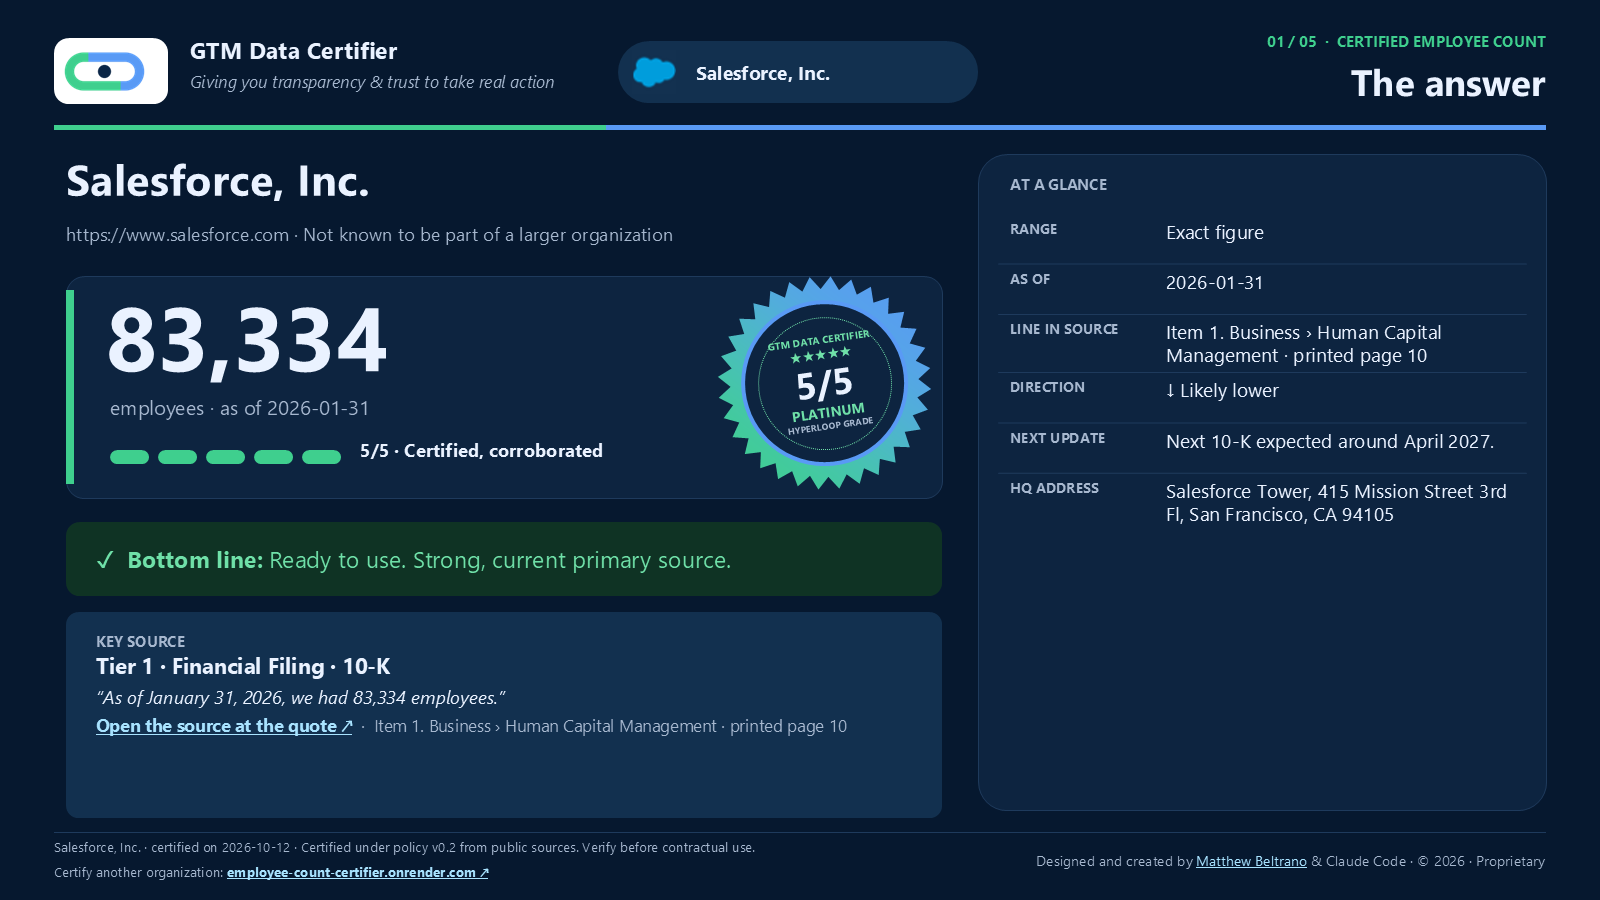
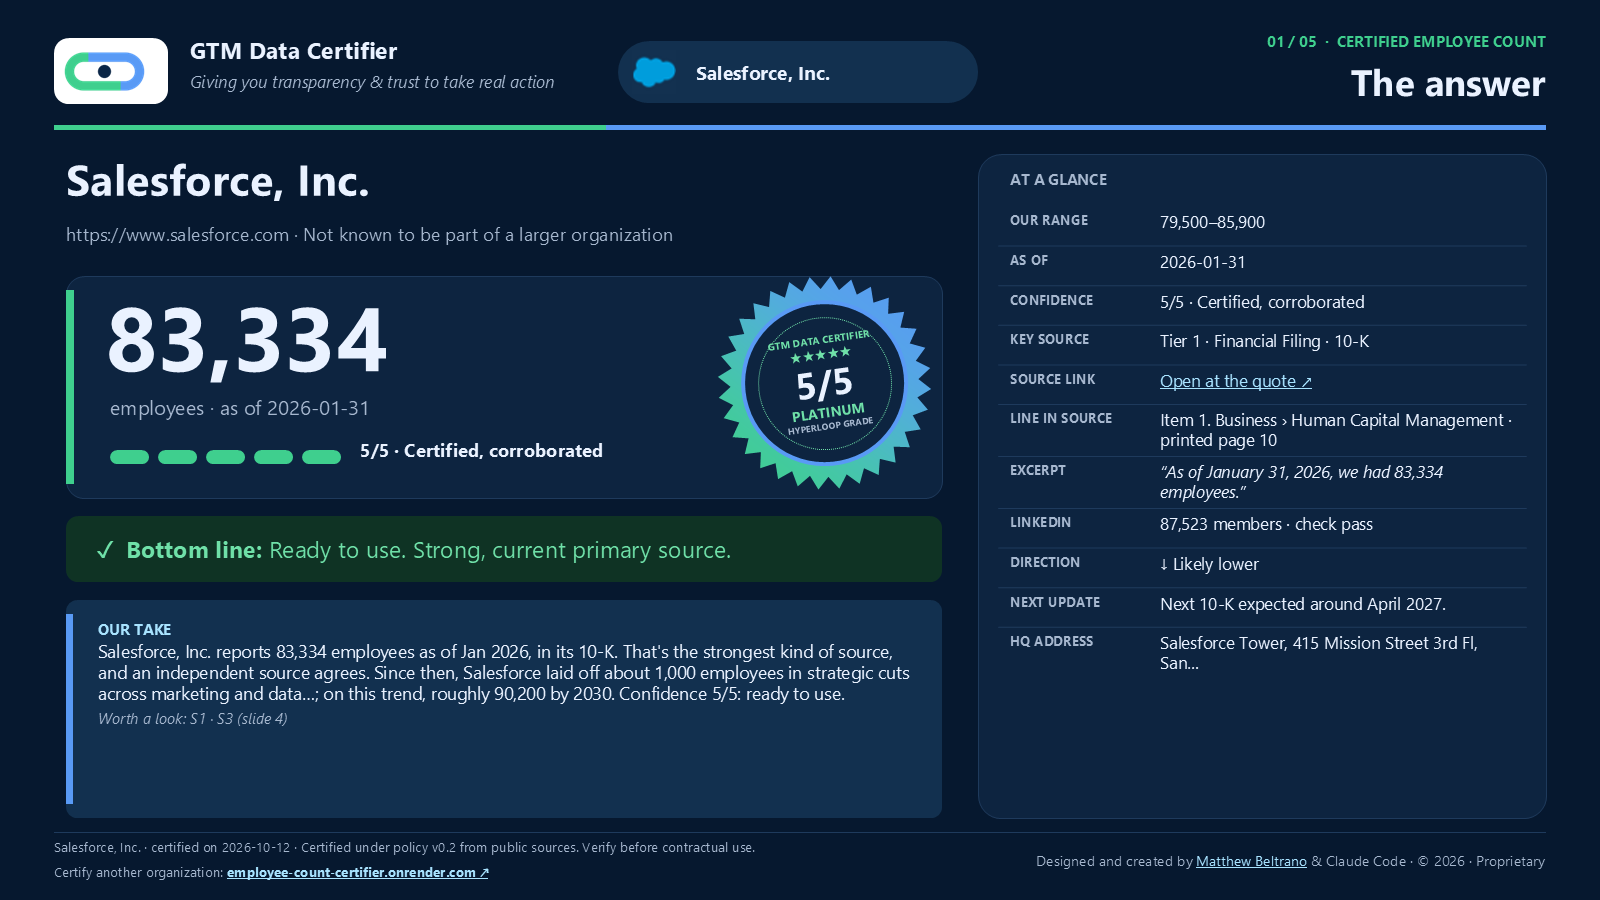
Sections collapsed by default, bottom Download beside Search, richer deck (Our take and full At a glance on slide 1, trust journey and score breakdown on slide 3)

diff --git a/src/certifier/static/app.js b/src/certifier/static/app.js
@@ -417,6 +417,18 @@
     state.rating = null;
     var rec = payload.record;
     GTMCard.render($("result-card"), rec, { actions: false, logo: logoUrl, exportUrl: exportUrl });
+    // The card's bottom Download menu sits beside "Search another company" below the card, saving a row.
+    var bottom = $("result-card").nextElementSibling, menu = $("result-card").querySelector("footer .footer-actions .dl-menu");
+    if (bottom && menu) {
+      var oldSlot = bottom.querySelector(".dl-slot");
+      if (oldSlot) oldSlot.remove();
+      var slot = document.createElement("span"), inner = document.createElement("span");
+      slot.className = "cert dl-slot"; inner.className = "footer-actions";
+      inner.appendChild(menu); slot.appendChild(inner);
+      bottom.insertBefore(slot, bottom.firstChild);
+      var emptyRow = $("result-card").querySelector("footer .footer-actions");
+      if (emptyRow && !emptyRow.children.length) emptyRow.remove();
+    }
     // The expedition's theme signs off on the result it found.
     var done = $("theme-done"), theme = fromHistory ? null : state.theme;
     state.theme = null;

diff --git a/src/certifier/static/app.css b/src/certifier/static/app.css
@@ -314,3 +314,9 @@ code { font-size: 13px; padding: 1px 5px; border-radius: 4px; background: var(--
   .recent-list button { padding: 8px 10px; font-size: 13px; }
   .site-footer { font-size: 12px; }
 }
+
+/* The card's bottom Download menu, moved beside "Search another company". */
+.dl-slot { display: inline-block; }
+.dl-slot .footer-actions { margin: 0; display: inline-block; }
+.dl-slot .dl-menu > summary.dl-button { padding: 11px 16px; font-size: 15px; }
+.actions { align-items: center; }

diff --git a/src/certifier/office.py b/src/certifier/office.py
@@ -274,43 +274,44 @@ def deck(record: dict, theme: str = "light", logo: bytes | None = None, site_url
         rect(s, 0.92 + i * 0.4, 3.75, 0.32, 0.12, "brand_green" if i < c["score"] else "line", MSO_SHAPE.ROUNDED_RECTANGLE, radius=0.5)
     text(s, 3.0, 3.66, 2.9, 0.3, f"{c['score']}/5 · {c['level']}", 11, bold=True)
     _seal(s, 5.98, 2.3, 1.78, c["score"], t)
-    bl = rect(s, 0.55, 4.35, 7.3, 0.62, tone + "_bg", MSO_SHAPE.ROUNDED_RECTANGLE, radius=0.18)
+    bl = rect(s, 0.55, 4.3, 7.3, 0.55, tone + "_bg", MSO_SHAPE.ROUNDED_RECTANGLE, radius=0.18)
     frame(bl, [(0, [({"ready": "✓  ", "usable": "!  ", "directional": "✕  "}[band], 14, True, tone, False, None),
                     ("Bottom line: ", 14, True, tone, False, None), (h.get("bottom_line") or "", 14, False, tone, False, None)])],
           anchor=MSO_ANCHOR.MIDDLE)
     if h.get("story"):  # "Our take" in the speaker notes, for whoever presents the slides
         s.notes_slide.notes_text_frame.text = "Our take: " + h["story"]
-    ks_top = 5.1
+    ks_top = 5.0
     if h.get("peer_note"):
         rare = h.get("peer_level") == "rare"
-        note = rect(s, 0.55, 5.03, 7.3, 0.42, "green_bg" if rare else "soft", MSO_SHAPE.ROUNDED_RECTANGLE, radius=0.3)
+        note = rect(s, 0.55, 4.95, 7.3, 0.4, "green_bg" if rare else "soft", MSO_SHAPE.ROUNDED_RECTANGLE, radius=0.3)
         frame(note, [(0, [("✦ " if rare else "◆ ", 11, True, "green" if rare else "accent", False, None),
                           ((f"Rare for a private company: a {c['score']}/5 without public filings. Worth celebrating."
                             if rare else "Strong for a private company: 3/5 is about as good as it gets without public "
                             "filings; 4-5 is rare."), 10, rare, "green" if rare else "text", False, None)])],
               anchor=MSO_ANCHOR.MIDDLE, margin=0.16)
-        ks_top = 5.55
-    ks = rect(s, 0.55, ks_top, 7.3, 6.82 - ks_top, "soft", MSO_SHAPE.ROUNDED_RECTANGLE, radius=0.06)
-    if p.get("source_id"):
-        loc = p.get("location") or {}
-        paras = [(0, [("KEY SOURCE", 9, True, "muted", False, None)]),
-                 (2, [(_source_label(p), 13, True, "text", False, None)])]
-        if p.get("excerpt"):
-            paras.append((4, [("“" + _excerpt(p["excerpt"], h.get("count")) + "”", 11, False, "text", True, None)]))
-        paras.append((4, [("Open the source at the quote ↗", 10.5, True, "accent", False, loc.get("deep_link") or p["url"]),
-                          (("  ·  " + _line_in_source(p)) if _line_in_source(p) else "", 10, False, "muted", False, None)]))
-        frame(ks, paras)
+        ks_top = 5.45
+    # Our take: the answer in plain words (the key source's details sit in "At a glance").
+    take = rect(s, 0.55, ks_top, 7.3, 6.82 - ks_top, "soft", MSO_SHAPE.ROUNDED_RECTANGLE, radius=0.05)
+    rect(s, 0.55, ks_top + 0.12, 0.06, 6.82 - ks_top - 0.24, "blue")
+    if h.get("story"):
+        paras = [(0, [("OUR TAKE", 9, True, "accent", False, None)]), (2, [(h["story"], 10.5, False, "text", False, None)])]
+        if h.get("story_sources"):
+            paras.append((3, [("Worth a look: " + " · ".join(h["story_sources"]) + " (slide 4)", 9, False, "muted", True, None)]))
+        frame(take, paras, margin=0.24)
     else:
-        frame(ks, [(0, [("KEY SOURCE", 9, True, "muted", False, None)]),
-                   (2, [(p.get("none_reason") or "No key source.", 12, False, "text", False, None)])])
-    rect(s, 8.15, 1.28, 4.73, 5.47, "card", MSO_SHAPE.ROUNDED_RECTANGLE, line="line", radius=0.05)
-    text(s, 8.42, 1.46, 4.2, 0.26, "AT A GLANCE", 9, "muted", bold=True)
-    facts = [f for f in _facts(r) if f[0] not in ("Employees", "Confidence", "Key source", "Excerpt")]
-    tbl = table(s, 8.32, 1.78, 4.4, len(facts), 2, (1.3, 3.1), row_h=0.42)
-    for i, (label, value) in enumerate(facts):
-        last_row = i == len(facts) - 1
-        cell(tbl.cell(i, 0), [(label.upper(), 8.5, True, "muted")], rule=not last_row, top=True)
-        cell(tbl.cell(i, 1), [(value, 11.5, False, "text")], rule=not last_row, top=True)
+        frame(take, [(0, [("KEY SOURCE", 9, True, "muted", False, None)]),
+                     (2, [(_source_label(p) if p.get("source_id") else (p.get("none_reason") or "No key source."), 12, False,
+                           "text", False, None)])], margin=0.24)
+    rect(s, 8.15, 1.28, 4.73, 5.54, "card", MSO_SHAPE.ROUNDED_RECTANGLE, line="line", radius=0.04)
+    text(s, 8.42, 1.42, 4.2, 0.26, "AT A GLANCE", 9, "muted", bold=True)
+    glance = _glance(r)
+    tbl = table(s, 8.32, 1.72, 4.4, len(glance), 2, (1.25, 3.15), row_h=0.33)
+    for i, (label, value, link, italic) in enumerate(glance):
+        last_row = i == len(glance) - 1
+        cell(tbl.cell(i, 0), [(label.upper(), 8, True, "muted")], rule=not last_row, top=True)
+        cell(tbl.cell(i, 1), [(value, 10, False, "accent" if link else "text", italic)], rule=not last_row, top=True)
+        if link:
+            tbl.cell(i, 1).text_frame.paragraphs[0].runs[0].hyperlink.address = link
 
     # 2. Trend and forecast ------------------------------------------------------------------------
     s = slide(2, "Trend and forecast", "History and outlook")
@@ -374,49 +375,63 @@ def deck(record: dict, theme: str = "light", logo: bytes | None = None, site_url
 
     # 3. Why you can trust this -----------------------------------------------------------------------
     s = slide(3, "Why you can trust this", "Evidence and checks")
-    corr = sum(1 for x in r["sources"]["items"] if x["role"] == "corroborates")
-    adj = sum(1 for a in r["adjustments"]["items"] if a.get("change"))
-    red = sum(1 for f in r["findings"]["items"] if f["status"] == "red")
-    key_sub = _clip(p.get("source_type") or p.get("tier_name") or "", 26) if p.get("source_id") else None
-    tiles = [("KEY SOURCE", f"Tier {p['tier']}" if p.get("source_id") else "none", "blue", key_sub),
-             ("AS OF", h.get("as_of_date") or "undated", "blue", "estimated" if h.get("as_of_estimated") else None),
-             ("CONFIRMATIONS", str(corr), "brand_green" if corr else "line", "independent sources"),
-             ("ADJUSTMENTS", str(adj), "blue", "to the count"), ("NEEDS ATTENTION", str(red), "red" if red else "brand_green",
-                                                                  "red findings" if red else "nothing red")]
-    for i, (label, value, stripe, sub_text) in enumerate(tiles):
-        x = 0.55 + i * 2.5
-        tile = rect(s, x, 1.3, 2.33, 1.0, "soft", MSO_SHAPE.ROUNDED_RECTANGLE, radius=0.1)
-        rect(s, x, 1.42, 0.06, 0.76, stripe)
-        paras = [(0, [(label, 8.5, True, "muted", False, None)]), (1, [(value, 16, True, "text", False, None)])]
-        if sub_text:
-            paras.append((0, [(sub_text, 9.5, False, "muted", False, None)]))
-        frame(tile, paras, anchor=MSO_ANCHOR.MIDDLE, margin=0.22)
-    groups = [(g, title, [f for f in r["findings"]["items"] if f.get("group") == g])
-              for g, title in (("affects", "Affects the answer"), ("worth_knowing", "Worth knowing"))]
-    budget, rows = 6, []
-    for g, title, items in groups:
-        take = items[: max(0, min(len(items), budget - (1 if g == "affects" and groups[1][2] else 0)))]
-        budget -= len(take)
-        if take:
-            rows.append(("head", title))
-            rows += [("item", f) for f in take]
-    shown = sum(1 for kind, _ in rows if kind == "item")
-    if rows:
-        tbl = table(s, 0.55, 2.55, 12.33, len(rows), 3, (0.45, 9.55, 2.33), row_h=0.4)
-        for i, (kind, item) in enumerate(rows):
-            if kind == "head":
-                tbl.cell(i, 0).merge(tbl.cell(i, 2))
-                cell(tbl.cell(i, 0), [(item.upper(), 9, True, "muted")], fill="bg", rule=False)
-                continue
+    journey = _journey(r)
+    for i, (label, value, chip, note, tone_key, running) in enumerate(journey):
+        x = 0.55 + i * 2.1
+        last = i == len(journey) - 1
+        color = {"strong": "green", "neutral": "accent", "weak": "yellow", "harmful": "red"}[tone_key]
+        fill = {"strong": "green_bg", "neutral": "soft", "weak": "yellow_bg", "harmful": "red_bg"}[tone_key]
+        box = rect(s, x, 1.3, 1.9, 1.62, fill if not last else fill, MSO_SHAPE.ROUNDED_RECTANGLE, line=color if last else None, radius=0.08)
+        if last:
+            frame(box, [(0, [("WHERE WE LANDED", 8, True, "muted", False, None)]), (2, [(value, 26, True, color, False, None)]),
+                        (0, [(note, 10, True, color, False, None)])], anchor=MSO_ANCHOR.MIDDLE, margin=0.12)
+            for para in box.text_frame.paragraphs:
+                para.alignment = PP_ALIGN.CENTER
+        else:
+            rect(s, x, 1.3, 1.9, 0.06, color)
+            frame(box, [(4, [(label.upper(), 8, True, "muted", False, None)]), (2, [(value, 11.5, True, "text", False, None)]),
+                        (4, [(chip + "  ", 11, True, color, False, None), (note, 9, False, color, False, None)])], margin=0.14)
+            # the running score, as on the card
+            rect(s, x + 0.14, 2.62, 1.62, 0.16, "line", MSO_SHAPE.ROUNDED_RECTANGLE, radius=0.5)
+            if running:
+                rect(s, x + 0.14, 2.62, 1.62 * running / 5, 0.16, "brand_green", MSO_SHAPE.ROUNDED_RECTANGLE, radius=0.5)
+            text(s, x + 1.2, 2.6, 0.52, 0.2, f"{running}/5", 8.5, "text", bold=True, align=PP_ALIGN.RIGHT)
+        if i:
+            arrow = s.shapes.add_shape(MSO_SHAPE.OVAL, Inches(x - 0.17), Inches(1.98), Inches(0.24), Inches(0.24))
+            arrow.fill.solid()
+            arrow.fill.fore_color.rgb = rgb("card")
+            arrow.line.color.rgb, arrow.line.width = rgb("line"), Pt(0.75)
+            arrow.shadow.inherit = False
+            frame(arrow, [(0, [("=" if last else "›", 10, True, "accent", False, None)])], anchor=MSO_ANCHOR.MIDDLE, margin=0)
+            arrow.text_frame.paragraphs[0].alignment = PP_ALIGN.CENTER
+            arrow.text_frame.margin_top = arrow.text_frame.margin_bottom = 0
+    # How the score adds up, line by line.
+    lines = c.get("breakdown") or []
+    text(s, 0.55, 3.12, 6.0, 0.26, f"HOW THE SCORE ADDS UP  ·  {c['score']}/5 = {c.get('arithmetic', '')}", 9, "muted", bold=True)
+    tbl = table(s, 0.55, 3.4, 12.33, len(lines), 2, (0.6, 11.73), row_h=0.3)
+    for i, line in enumerate(lines):
+        pts = line["points"]
+        cell(tbl.cell(i, 0), [((("+" if pts > 0 and i else "") + str(pts)) if i else str(pts), 11, True,
+                              "green" if pts > 0 and i else "red" if pts < 0 else "text")], align=PP_ALIGN.CENTER)
+        cell(tbl.cell(i, 1), [(_clip(line["rationale"], 150), 10, False, "text")])
+    # The findings that affect the answer.
+    top = 3.55 + 0.32 * len(lines)
+    items = [f for f in r["findings"]["items"] if f.get("group") == "affects"]
+    room = max(0, int((6.5 - top - 0.3) / 0.36))
+    shown = items[:room]
+    if shown:
+        text(s, 0.55, top, 6.0, 0.26, "AFFECTS THE ANSWER", 9, "muted", bold=True)
+        tbl = table(s, 0.55, top + 0.28, 12.33, len(shown), 3, (0.45, 9.55, 2.33), row_h=0.34)
+        for i, item in enumerate(shown):
             sym = {"green": ("✓", "green"), "yellow": ("!", "yellow"), "red": ("✕", "red")}[item["status"]]
-            cell(tbl.cell(i, 0), [(sym[0], 14, True, sym[1])], align=PP_ALIGN.CENTER)
-            cell(tbl.cell(i, 1), [(_clip(item["title"], 95), 12, True, "text"),
-                                  ("  —  " + _clip(item.get("so_what", ""), 110), 10.5, False, "muted")])
-            cell(tbl.cell(i, 2), [(item.get("impact", ""), 10, False, "muted")], align=PP_ALIGN.RIGHT)
-    hidden = len(r["findings"]["items"]) - shown
+            cell(tbl.cell(i, 0), [(sym[0], 13, True, sym[1])], align=PP_ALIGN.CENTER)
+            cell(tbl.cell(i, 1), [(_clip(item["title"], 90), 11, True, "text"),
+                                  ("  —  " + _clip(item.get("so_what", ""), 100), 10, False, "muted")])
+            cell(tbl.cell(i, 2), [(item.get("impact", ""), 9.5, False, "muted")], align=PP_ALIGN.RIGHT)
+    hidden = len(r["findings"]["items"]) - len(shown)
     if hidden > 0:
-        text(s, 0.55, 6.55, 12.33, 0.28, f"+{hidden} more finding{'s' if hidden != 1 else ''} on the card and in the Word document.",
-             10, "muted", italic=True)
+        text(s, 0.55, 6.6, 12.33, 0.26, f"+{hidden} more finding{'s' if hidden != 1 else ''} on the card and in the Word document.",
+             9.5, "muted", italic=True)
 
     # 4. Sources -------------------------------------------------------------------------------------
     s = slide(4, "Sources", "Every source considered")
@@ -515,6 +530,75 @@ def _thank_you(prs, layout, company: str, site_url: str, site_label: str) -> Non
     rule.line.fill.background()
     say(0.75, 6.78, 6.5, 0.35, "Designing for the Human in the Hyperloop", 13, "text", bold=True)
     say(7.0, 6.82, 5.73, 0.3, "GTM DATA CERTIFIER  ·  © 2026 MATTHEW BELTRANO", 11, "accent", bold=True, align=PP_ALIGN.RIGHT)
+
+
+def _glance(r: dict) -> list[tuple[str, str, str | None, bool]]:
+    """"At a glance" on slide 1: (label, value, link, italic), as on the card's facts table."""
+    h, c, p, e, li = r["headline"], r["confidence"], r["primary_source"], r["entity"], r.get("linkedin_check") or {}
+    rng = h.get("range")
+    rows: list[tuple[str, str, str | None, bool]] = [
+        ("Our range", f"{_num(rng[0])}–{_num(rng[1])}" if rng and rng[0] != rng[1] else "Exact figure", None, False),
+        ("As of", (h.get("as_of_date") or "undated") + (" (estimated)" if h.get("as_of_estimated") else ""), None, False),
+        ("Confidence", f"{c['score']}/5 · {c['level']}", None, False)]
+    if p.get("source_id"):
+        rows.append(("Key source", _clip(_source_label(p), 70), None, False))
+        loc = p.get("location") or {}
+        rows.append(("Source link", "Open at the quote ↗", loc.get("deep_link") or p["url"], False))
+        if _line_in_source(p):
+            rows.append(("Line in source", _clip(_line_in_source(p), 70), None, False))
+        if p.get("excerpt"):
+            rows.append(("Excerpt", "“" + _excerpt(p["excerpt"], h.get("count"), 170) + "”", None, True))
+    else:
+        providers = [s for s in r["sources"]["items"] if s["tier"] >= 7 and s["scope"] == "global"]
+        basis = f"{len(providers)} data providers" + (" and LinkedIn" if li.get("member_count") else "")
+        rows.append(("Key source", f"No single source: derived from {basis}", None, False))
+        if providers:
+            vals = [s["value"] for s in providers]
+            rows.append(("Data providers", f"{_num(min(vals))}–{_num(max(vals))} ({len(vals)} figures)", None, False))
+    if li.get("member_count"):
+        growth = f" · {li['growth_1y']:+.0%} in a year" if li.get("growth_1y") is not None else ""
+        rows.append(("LinkedIn", f"{_num(li['member_count'])} members{growth} · check {li.get('status', '').replace('_', ' ')}",
+                     None, False))
+    if h.get("direction"):
+        rows.append(("Direction", DIRECTION.get(h["direction"], h["direction"]), None, False))
+    if h.get("next_update_note"):
+        rows.append(("Next update", _clip(h["next_update_note"], 80), None, False))
+    if e.get("address"):
+        rows.append(("HQ address", _clip(e["address"], 60), None, False))
+    return rows
+
+
+def _journey(r: dict) -> list[tuple[str, str, str, str, str, int]]:
+    """The trust journey, as on the card: (label, value, signed impact, note, tone, running score), then the landing."""
+    h, c, p = r["headline"], r["confidence"], r["primary_source"]
+    lines = c.get("breakdown") or []
+    base = lines[0]["points"] if lines else c["score"]
+    recency = sum(l["points"] for l in lines[1:] if l["rationale"].lower().startswith("recency"))
+    corr_pts = sum(l["points"] for l in lines[1:] if l["rationale"].lower().startswith("corroborat"))
+    flags = sum(l["points"] for l in lines[1:]) - recency - corr_pts
+    clamp = lambda v: max(0, min(5, v))  # noqa: E731
+    s1, s2 = clamp(base), clamp(base + recency)
+    s3 = clamp(s2 + corr_pts)
+    signed = lambda n: f"+{n}" if n > 0 else f"−{-n}" if n < 0 else "±0"  # noqa: E731
+    corr = sum(1 for x in r["sources"]["items"] if x["role"] == "corroborates")
+    adj = sum(1 for a in r["adjustments"]["items"] if a.get("change"))
+    red = sum(1 for f in r["findings"]["items"] if f["status"] == "red")
+    key = f"Tier {p['tier']} · {_clip(p.get('source_type') or p.get('tier_name') or '', 22)}" if p.get("source_id") else "No single source"
+    as_of = (h.get("as_of_date") or "undated") + (" (est.)" if h.get("as_of_estimated") else "")
+    return [
+        ("Key source", key, f"start {base}", "starting score",
+         "strong" if base >= 4 else "neutral" if base == 3 else "weak" if base == 2 else "harmful", s1),
+        ("As of", as_of, signed(recency), "older than the window" if recency < 0 else "current" if h.get("as_of_date") else "undated",
+         "weak" if recency < 0 else "strong" if h.get("as_of_date") and not h.get("as_of_estimated") else "neutral", s2),
+        ("Confirmations", f"{corr} independent", signed(corr_pts), "confirmed" if corr_pts > 0 else "single-sourced",
+         "strong" if corr_pts > 0 else "neutral", s3),
+        ("Adjustments", f"{adj} to the count", "±0", "figure moved" if adj else "none needed", "neutral" if adj else "strong", s3),
+        ("Needs attention", f"{red} red flag{'s' if red != 1 else ''}", signed(flags),
+         "see findings" if flags < 0 else "at the minimum" if red else "nothing red",
+         "harmful" if flags < 0 else "weak" if red else "strong", c["score"]),
+        ("Where we landed", f"{c['score']}/5", "", c["level"],
+         "strong" if c["score"] >= 4 else "weak" if c["score"] == 3 else "harmful", c["score"]),
+    ]
 
 
 def round_forecast(value) -> int:

diff --git a/src/certifier/card.py b/src/certifier/card.py
@@ -1191,7 +1191,7 @@ CARD_JS = r"""
 
   function primary(r) {
     var p = r.primary_source, k = r.__k;
-    if (!p.source_id) return section("Key Source", "none", [none(p.none_reason)], true, k + "-key", "key");
+    if (!p.source_id) return section("Key Source", "none", [none(p.none_reason)], false, k + "-key", "key");
     var loc = p.location;
     return section("Key Source", sourceLabel(p) + " · " + (loc.section ? loc.section + " · " : "") + loc.page_label, [
       labelRow(p), whatIsThis(p),
@@ -1235,7 +1235,7 @@ CARD_JS = r"""
   }
   function findings(r) {
     var items = r.findings.items, k = r.__k;
-    if (!items.length) return section("Findings", "none", [none(r.findings.none_reason)], true, k + "-findings", "findings");
+    if (!items.length) return section("Findings", "none", [none(r.findings.none_reason)], false, k + "-findings", "findings");
     var nodes = [], counts = [];
     GROUPS.forEach(function (g) {
       var list = items.filter(function (f) { return (f.group || (f.score_impact ? "affects" : "worth_knowing")) === g[0]; });
@@ -1249,7 +1249,7 @@ CARD_JS = r"""
         nodes.push(el("p", { cls: "log-head", text: g[2] + " " + g[1] + " · " + list.length }), log);
       }
     });
-    return section("Findings", counts.join(" · "), nodes, true, k + "-findings", "findings");
+    return section("Findings", counts.join(" · "), nodes, false, k + "-findings", "findings");
   }
 
   // Guided drill-in hints: shown until opened once (remembered per browser).

diff --git a/tests/test_downloads.py b/tests/test_downloads.py
@@ -41,6 +41,8 @@ def test_deck_has_five_branded_slides_with_company_site_and_credit_links_in_both
                  for p in sh.text_frame.paragraphs for r in p.runs if r.hyperlink.address]
         links += [sh.click_action.hyperlink.address for s in prs.slides for sh in s.shapes
                   if sh.click_action.hyperlink.address]  # clickable buttons and the LinkedIn card
+        links += [r.hyperlink.address for s in prs.slides for sh in s.shapes if sh.has_table for row in sh.table.rows
+                  for c in row.cells for p in c.text_frame.paragraphs for r in p.runs if r.hyperlink.address]  # table cells
         assert links.count(LINKEDIN) >= 5 and links.count(site) >= 5 and any("sec.gov" in u for u in links)
         assert any(sh.has_chart for sh in prs.slides[1].shapes)  # a native, editable chart
         card = [sh for sh in prs.slides[4].shapes if sh.shape_type == 13 and sh.click_action.hyperlink.address == LINKEDIN]

diff --git a/DECISIONS.md b/DECISIONS.md
@@ -955,3 +955,13 @@ The record's entity carries `address` and `address_source`, shown as **HQ addres
   from the certified figure (the superseded series is dropped) with historical estimates behind it.
 - **Charts:** one trend point per year (the latest), and the forecast range is never zero (at least ±4%).
 - Result for the same evidence: about 4,970 (4,260-5,700), 2/5, from 2,300 in late 2025 toward about 10,900 by 2029.
+
+### D119. Collapsed by default; a richer deck
+- Every section on the card starts collapsed (Findings and Key Source used to open); the drill bar opens them.
+- On the web page, the card's bottom Download menu sits beside "Search another company", saving a row; saved cards and
+  Claude keep it in the card footer.
+- Deck slide 1 carries the card's detail: the hero, bottom line, "Our take" (with the sources worth a look) and an
+  "At a glance" panel (our range, as of, confidence, key source with link, line in source and excerpt, or the data
+  providers' spread when no single source sets it; LinkedIn members and growth; direction; next update; HQ).
+- Deck slide 3 is the same trust journey as the card (colour-coded cards with signed impact and a running score,
+  arrows, and where we landed), then how the score adds up line by line, then the findings that affect the answer.
